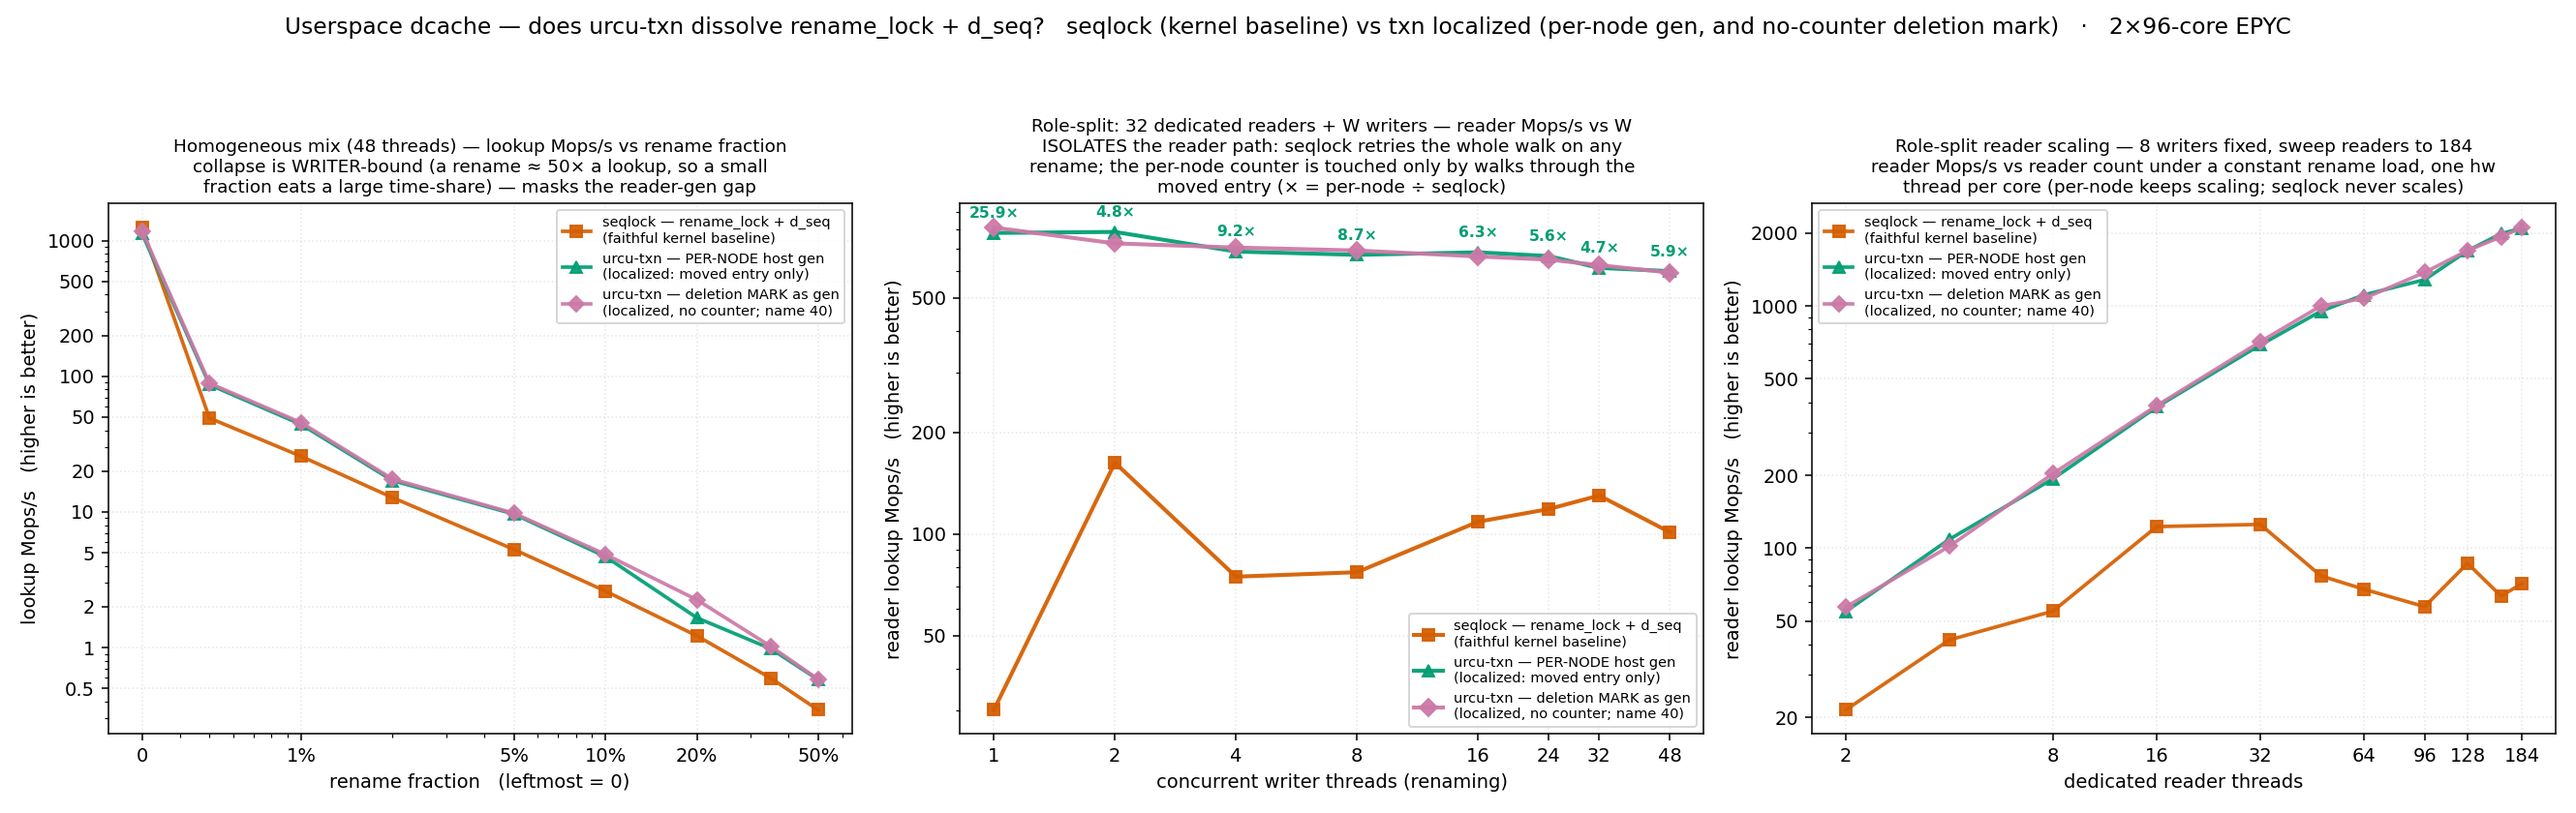
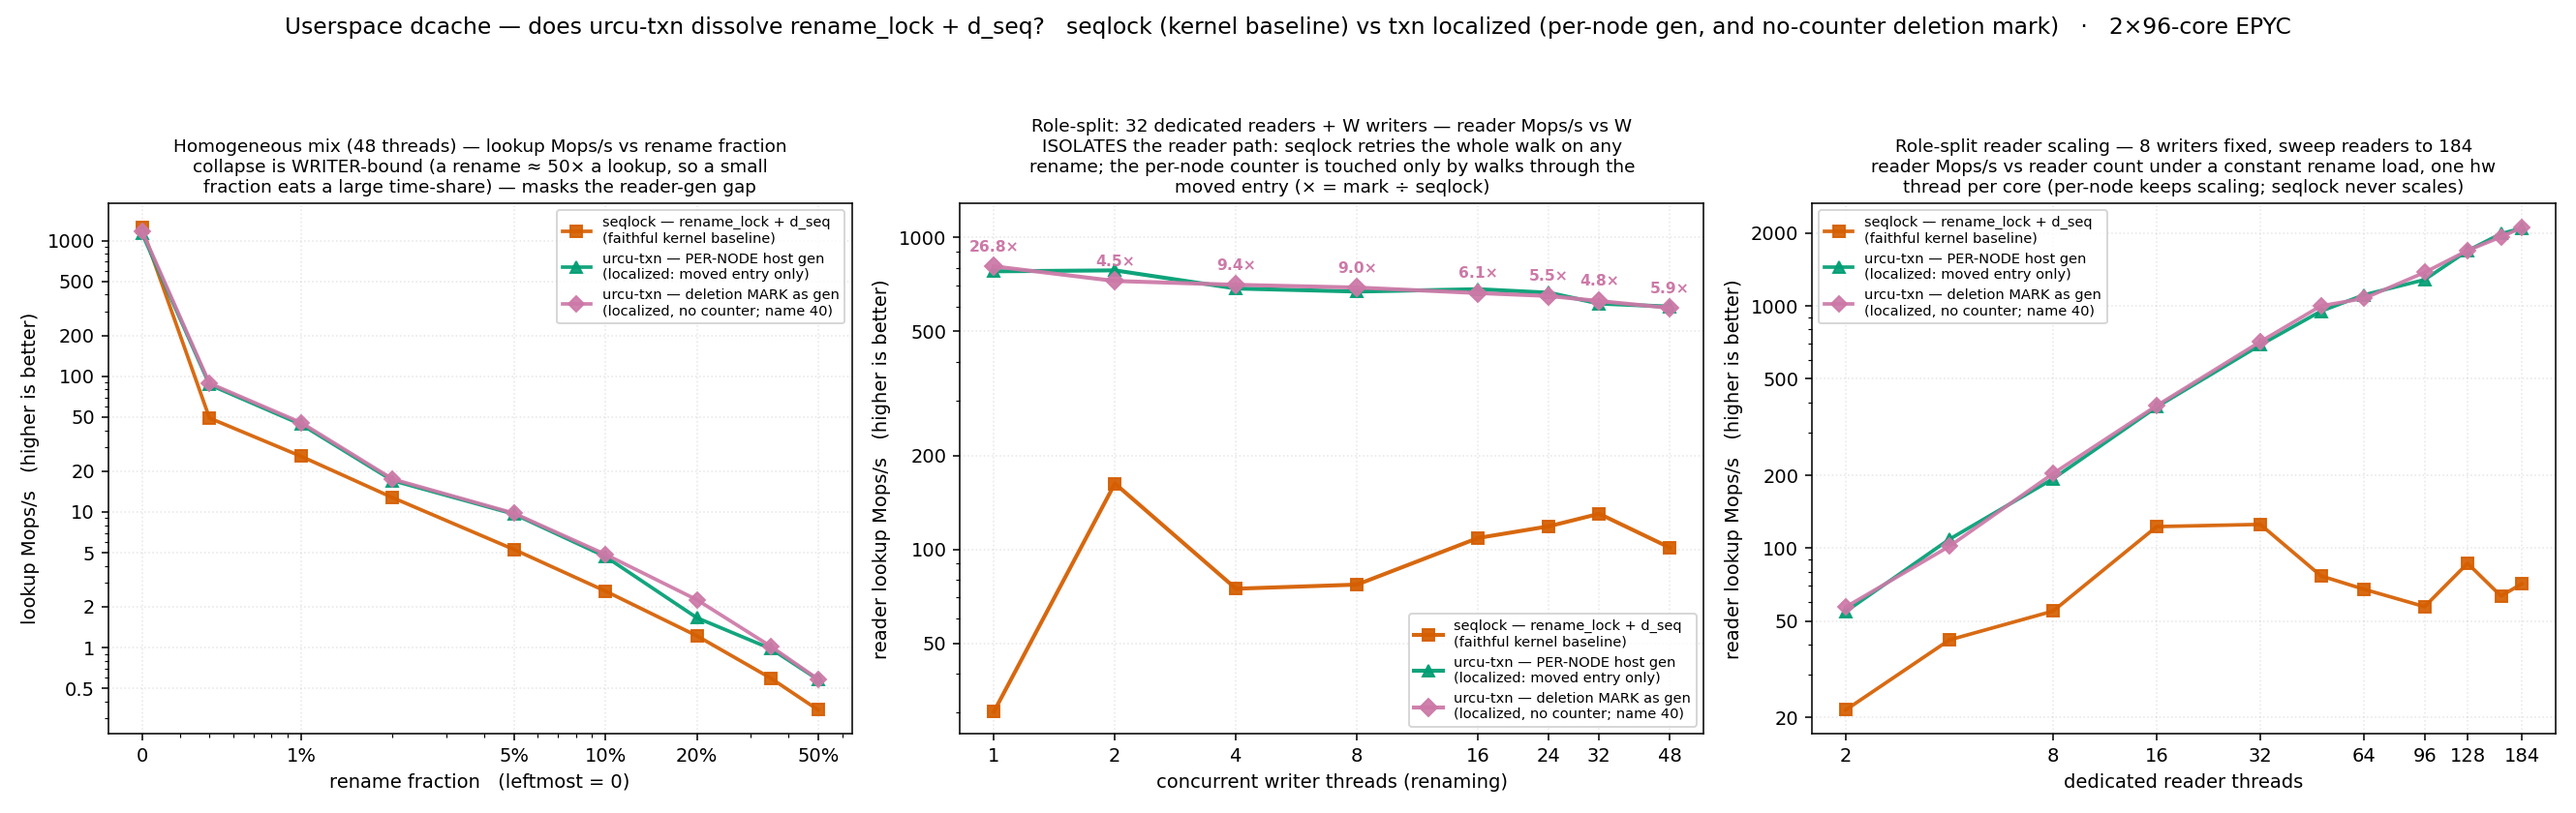
dcache: annotate the figures against the mark arm, not the per-node counter
The x ratio labels still compared txn-pernode to the baseline, which is
the wrong line now that the per-node counter arm has been superseded: a
reader takes the annotated curve to be the result being argued for.
Retargeted all three figures to txn-mark via an ANNOT env knob (default
txn-mark), and updated the captions that spelled out "x = per-node /
seqlock".

The height panel is where this mattered most.  It previously annotated
the per-node line, whose last label is 0.91x -- the inversion below the
kernel baseline -- so the figure read as if the localized design loses
near the root.  It now annotates the mark line, ending at 1.52x, with
the per-node curve still plotted so the crossover remains visible.
Titles say so explicitly rather than leaving it to the reader.

Also: the s3 middle panel clipped its leftmost label (26.8x) against the
axes top, and the height titles overflowed the canvas once lengthened.
Both fixed.

No data changed; figures regenerated from the committed CSVs.

diff --git a/scripts/plot_dcache_height.py b/scripts/plot_dcache_height.py
@@ -60,13 +60,14 @@ for e in ENGINES:
 # per-node lead over the seqlock baseline at each height -- the erosion.
 # Label above the per-node point where it leads, below where it dips under
 # seqlock (so the text never lands on the other curve at the crossover).
-for h in sorted(base["txn-pernode"]):
+ANNOT = os.environ.get("ANNOT", "txn-mark")
+for h in sorted(base.get(ANNOT, {})):
     if h in base["seqlock"] and base["seqlock"][h] > 0:
-        pn, sq = base["txn-pernode"][h], base["seqlock"][h]
-        dy = 10 if pn >= sq else -18
-        ax.annotate(f"{pn / sq:.2f}×", (h, pn),
+        v, sq = base[ANNOT][h], base["seqlock"][h]
+        dy = 10 if v >= sq else -18
+        ax.annotate(f"{v / sq:.2f}×", (h, v),
                     textcoords="offset points", xytext=(0, dy),
-                    ha="center", fontsize=8.5, color=COLOR["txn-pernode"],
+                    ha="center", fontsize=8.5, color=COLOR[ANNOT],
                     fontweight="bold")
 
 heights = sorted({int(r["move_height"]) for r in rows})
@@ -83,13 +84,14 @@ ax.set_xlabel("move height H above the leaves  "
 ax.set_ylabel("reader Mlookups/s   (higher is better)")
 ax.set_title("Move-height sweep — 32 readers + 8 writers, balanced binary bands "
              "(256 leaves)\nwriters exchange sibling subtrees at height H;  "
-             "× = per-node ÷ seqlock\nthe COUNTER's localization erodes as moves "
-             "climb toward the band root; the MARK's does not", fontsize=9)
+             "× = mark ÷ seqlock\nthe COUNTER's localization erodes as moves climb "
+             "toward the band root,\ncrossing BELOW the baseline at H=7; the MARK's does not",
+             fontsize=9)
 ax.grid(alpha=0.3, ls=":")
 ax.legend(fontsize=8, loc="best")
-fig.suptitle("Userspace dcache — how high can a rename climb before the localized "
-             "version stops helping?   (the per-node COUNTER inverts at H=7; the "
-             "deletion MARK does not)", fontsize=10.5)
-fig.tight_layout(rect=[0, 0, 1, 0.96])
+fig.suptitle("Userspace dcache — how high can a rename climb before the localized\n"
+             "version stops helping?  The per-node COUNTER inverts at H=7; the MARK does not.",
+             fontsize=10.5)
+fig.tight_layout(rect=[0, 0, 1, 0.93])
 fig.savefig(OUT, dpi=140)
 print("wrote", os.path.abspath(OUT))

diff --git a/scripts/plot_dcache.py b/scripts/plot_dcache.py
@@ -117,22 +117,29 @@ for e in ENGINES:
         continue
     ax2.plot(xs, ys, color=COLOR[e], marker=MARKER[e], lw=2.1, ms=6.5,
              label=LABEL[e], alpha=0.94)
-# annotate the per-node lead over the seqlock baseline where both exist
-for w in sorted(base["txn-pernode"]):
+# Annotate the lead of the SURVIVING design over the seqlock baseline.  ANNOT
+# tracks whichever arm is the one being argued for -- txn-mark since the
+# per-node counter arm was superseded -- so the ratios label the line a reader
+# is meant to take away.
+ANNOT = os.environ.get("ANNOT", "txn-mark")
+for w in sorted(base.get(ANNOT, {})):
     if w in base["seqlock"] and base["seqlock"][w] > 0:
-        r = base["txn-pernode"][w] / base["seqlock"][w]
+        r = base[ANNOT][w] / base["seqlock"][w]
         if r >= 1.15:
-            ax2.annotate(f"{r:.1f}×", (w, base["txn-pernode"][w]),
+            ax2.annotate(f"{r:.1f}×", (w, base[ANNOT][w]),
                          textcoords="offset points", xytext=(0, 8),
-                         ha="center", fontsize=8, color=COLOR["txn-pernode"],
+                         ha="center", fontsize=8, color=COLOR[ANNOT],
                          fontweight="bold")
 if ax2.has_data():
     plain_thread_x(ax2, [1, 2, 4, 8, 16, 24, 32, 48])
     plain_y(ax2)
+    # headroom so the leftmost ratio label is not clipped by the axes top
+    lo, hi = ax2.get_ylim()
+    ax2.set_ylim(lo, hi * 1.35)
 ax2.set_title("Role-split: 32 dedicated readers + W writers — reader Mops/s vs W\n"
               "ISOLATES the reader path: seqlock retries the whole walk on any\n"
               "rename; the per-node counter is touched only by walks through the\n"
-              "moved entry (× = per-node ÷ seqlock)",
+              "moved entry (× = mark ÷ seqlock)",
               fontsize=9.5)
 ax2.set_xlabel("concurrent writer threads (renaming)")
 ax2.set_ylabel("reader lookup Mops/s   (higher is better)")

diff --git a/scripts/plot_dcache_readdir.py b/scripts/plot_dcache_readdir.py
@@ -90,14 +90,15 @@ for e in ENGINES:
         continue
     ax1.plot(xs, ys, color=COLOR[e], marker=MARKER[e], lw=2.0, ms=6.5,
              label=LABEL[e], alpha=0.94)
-# per-node lead over the seqlock rwsem baseline where both exist
-for rd in sorted(base.get("txn-pernode", {})):
+# Lead of the SURVIVING design over the seqlock rwsem baseline (see plot_dcache).
+ANNOT = os.environ.get("ANNOT", "txn-mark")
+for rd in sorted(base.get(ANNOT, {})):
     if rd in base.get("seqlock", {}) and base["seqlock"][rd] > 0:
-        r = base["txn-pernode"][rd] / base["seqlock"][rd]
+        r = base[ANNOT][rd] / base["seqlock"][rd]
         if r >= 1.5:
-            ax1.annotate(f"{r:.1f}×", (rd, base["txn-pernode"][rd]),
+            ax1.annotate(f"{r:.1f}×", (rd, base[ANNOT][rd]),
                          textcoords="offset points", xytext=(0, 8),
-                         ha="center", fontsize=8, color=COLOR["txn-pernode"],
+                         ha="center", fontsize=8, color=COLOR[ANNOT],
                          fontweight="bold")
 if ax1.has_data():
     plain_thread_x(ax1, [2, 8, 16, 32, 64, 96, 128, 184])
